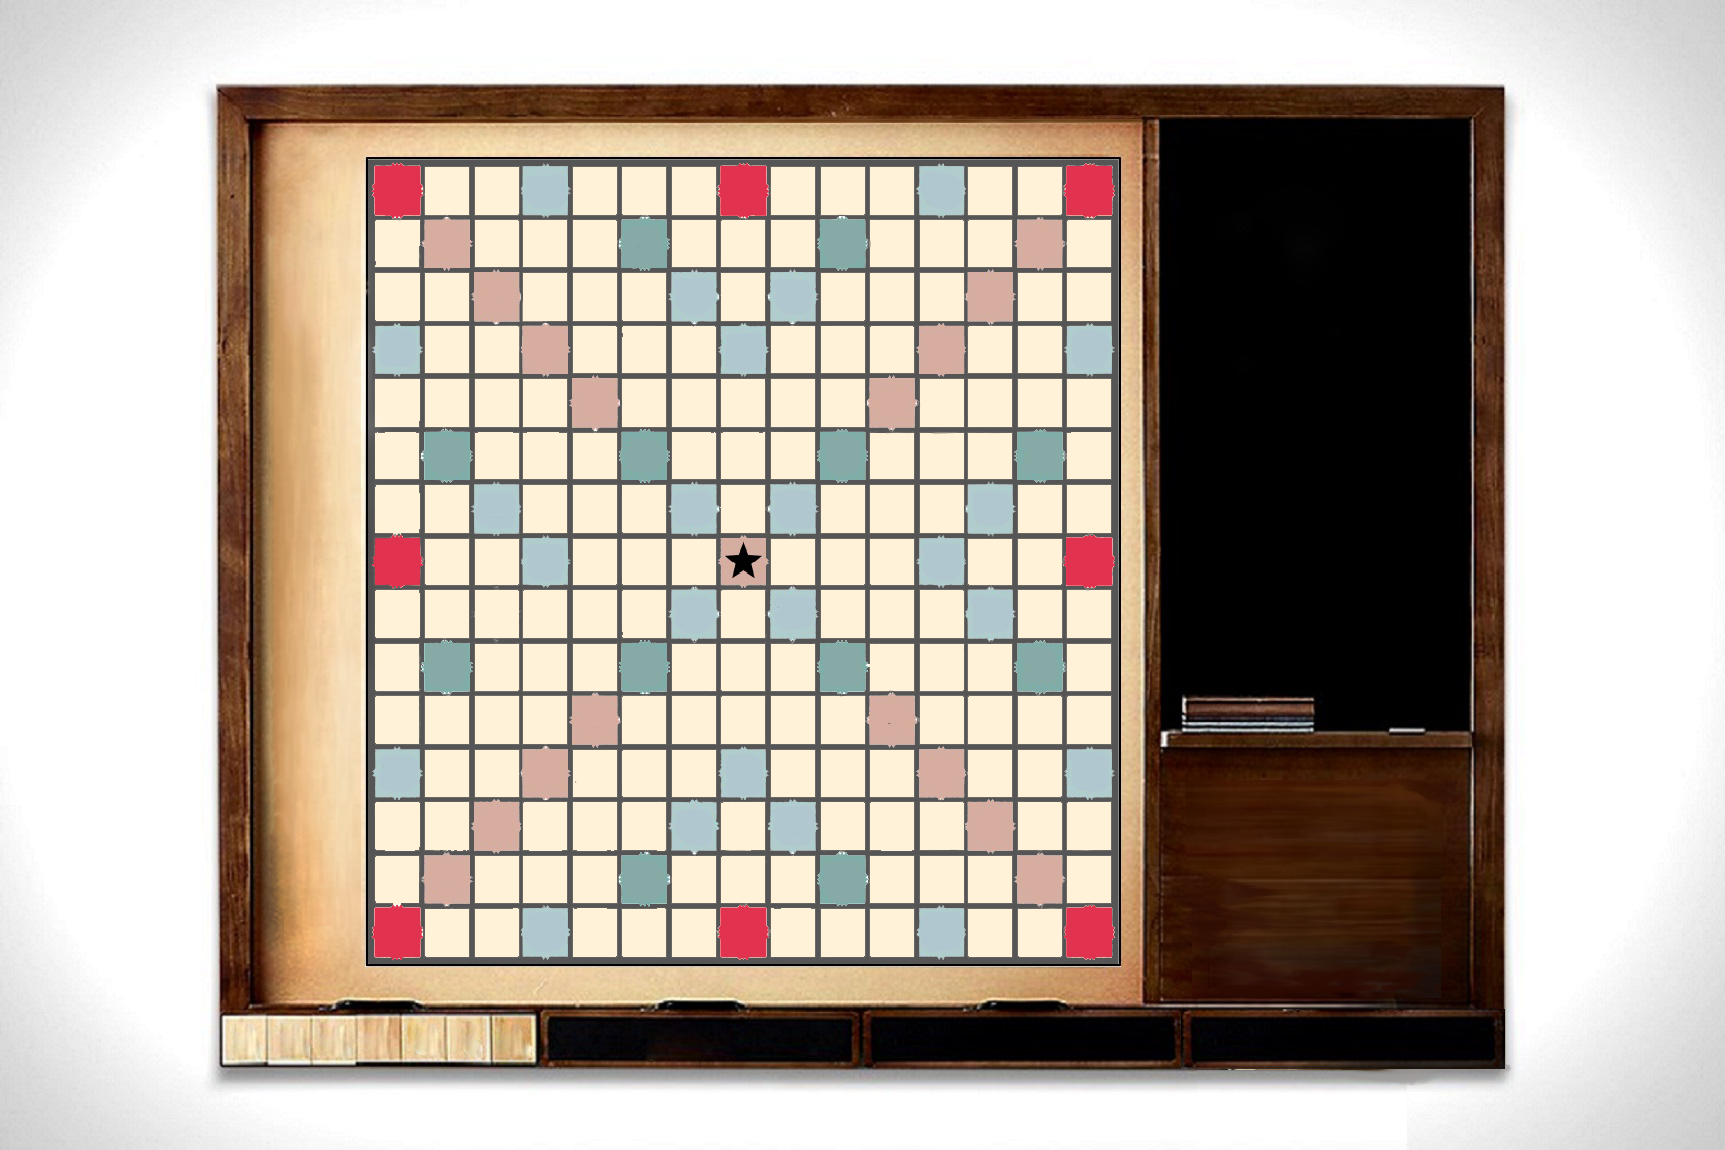
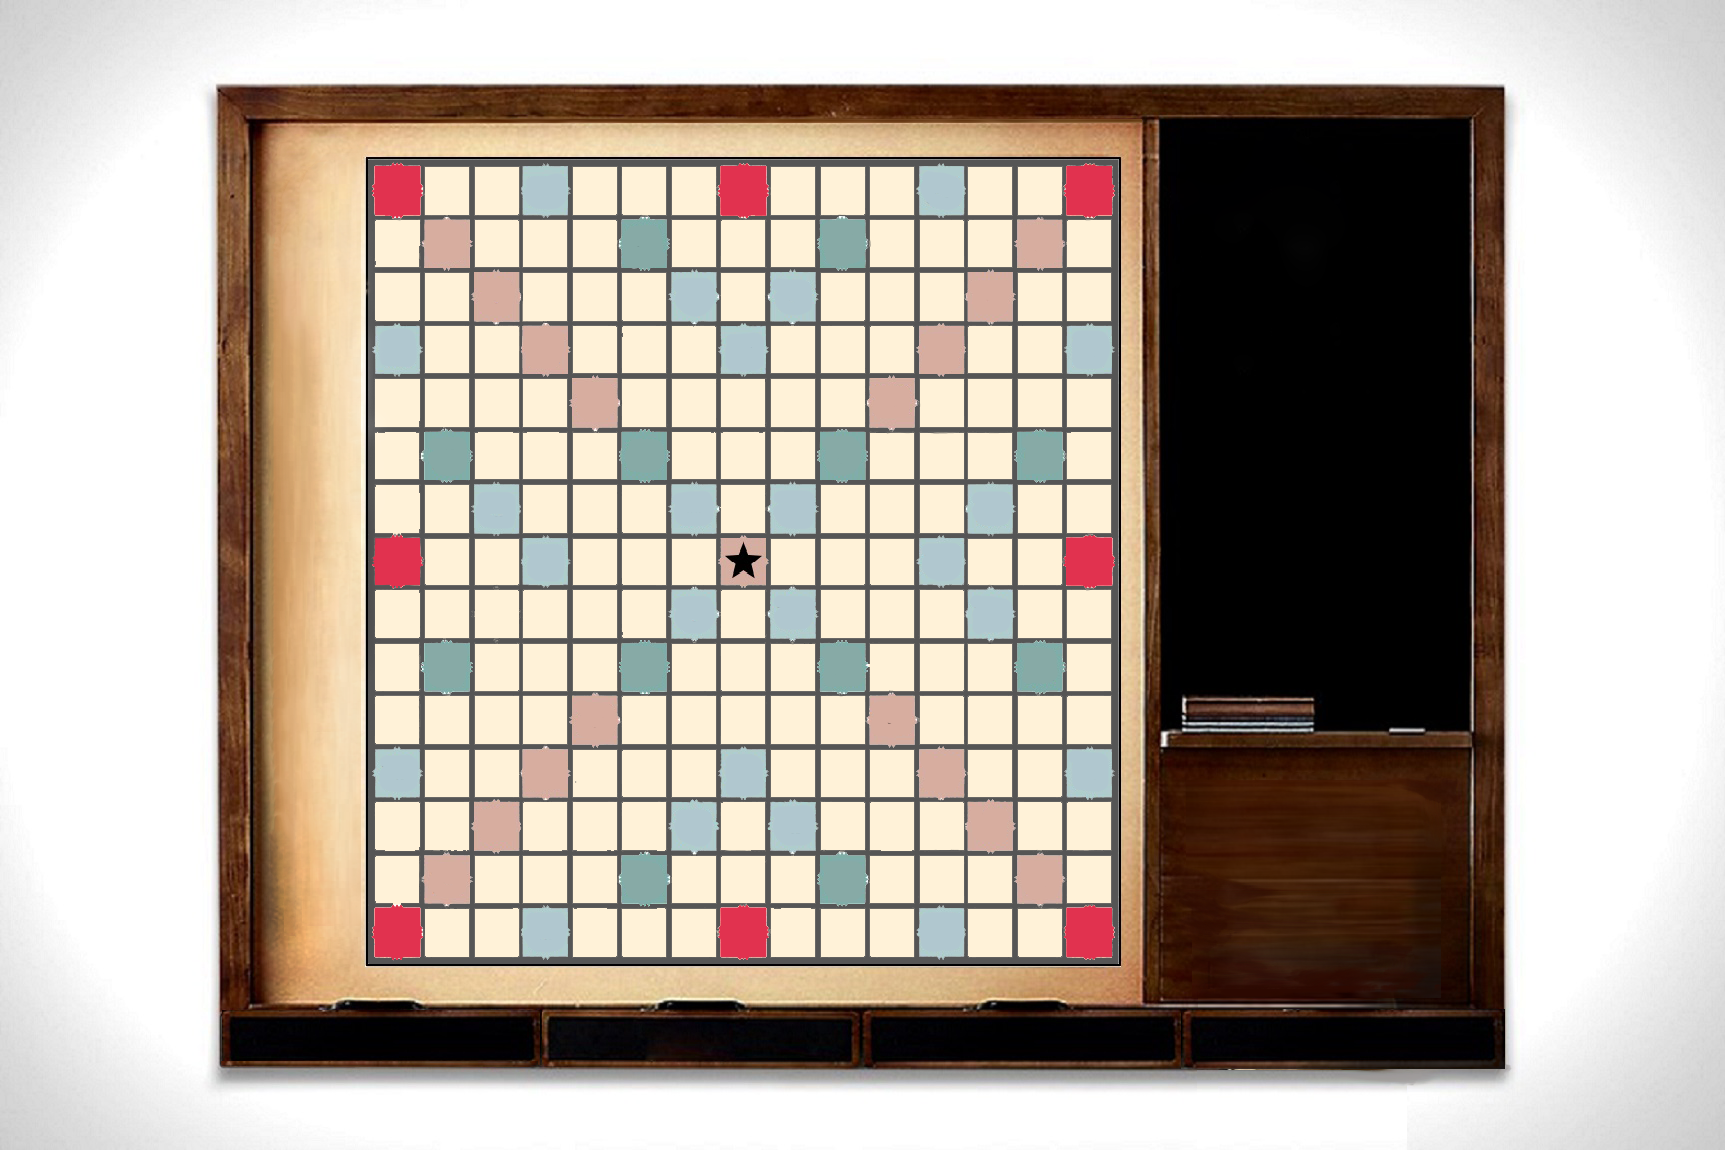
Adding the tiles bag

Changed region(s): [[0.1229, 0.8522, 0.338, 0.9435]]

diff --git a/tile.js b/tile.js
@@ -1,70 +1,93 @@
-console.log("tile file loaded");
-
-let Tile = function (app, board) {
-	this._tilepath = 'assets/blank-tile.png';
-    this._shadowpath = 'assets/blank-tile-shadow.png';
-    this._tilesprite;
-    this._shadowsprite;
-    this._text;
-    this._container;
-    this._clickable = true; //true on my turn only
-    this._visible = true;
-    this._board = board;
-    this._app = app;
-        
-    this._dummy = true;
-    this.init(app);
+let Tile= function(app,board){
+	this.position; //this represents the tile pos in the board
+	this.value; //this represents the value of the tile 
+	this.tileText; //this represents the tile character
+	this.container; //this is our container :D 
+	this.tileSprite; //used to load the tile image
+	this.shadowSprite; //used to add shadow to the tile
+	this.app=app;
+	this.board=board;
+	
+	this.tilePath = 'assets/blank-tile.png';
+    this.shadowPath = 'assets/blank-tile-shadow.png';
+    this.clickable = true; //true on my turn only
+    this.visible = true;
+	
+	this.init(app);
 }
 
 Tile.prototype = {
     init: function(app){
-        //Create container and assign it for rendering
-        this._container = new PIXI.Container();
-        app.stage.addChild(this._container);
-
-        // create a new Sprite from an image path
-        this._tilesprite = PIXI.Sprite.fromImage(this._tilepath);          
-        this._shadowsprite = PIXI.Sprite.fromImage(this._shadowpath);
-        let style = new PIXI.TextStyle({ fontFamily: 'Arial', fontSize: 28, dropShadow: true, dropShadowColor: '#000000',
-            dropShadowBlur: 4, dropShadowAngle: Math.PI / 6, dropShadowDistance: 0 });
-        this._text = new PIXI.Text('A', style);
-        this._shadowsprite.x = -7; this._shadowsprite.y = -3;
-        this._text.x = 12; this._text.y = 6;
-        this._tilesprite.interactive = this._clickable;
-        this._tilesprite.buttonMode = this._clickable;
-        //this._tilesprite.cursor = 'wait'  //wow! loading cursor
-        this._container.addChild(this._shadowsprite);
-        this._container.addChild(this._tilesprite);
-        this._container.addChild(this._text);
-        this._container.pivot.x = 22;
-        this._container.pivot.y = 22;
-        this._container.x = app.screen.width / 2;
-        this._container.y = app.screen.height / 2;   
-        this._container.scale.set(0.65); //0.7
-        // important note: el event el byndah el onclick kan hwa el 'this' fa 3amlt mwdo3 bind da
+		//create container
+		this.container = new PIXI.Container();
+		//assign the container for the global one for rendering
+		app.stage.addChild(this.container);
+		
+		// create a new Sprite from an image path
+        this.tileSprite = PIXI.Sprite.fromImage(this.tilePath);          
+        this.shadowSprite = PIXI.Sprite.fromImage(this.shadowPath);
+		
+		//create text style
+		let style = new PIXI.TextStyle({ fontFamily: 'Arial', fontSize: 28, dropShadow: true, dropShadowColor: '#000000',
+			dropShadowBlur: 4, dropShadowAngle: Math.PI / 6, dropShadowDistance: 0 });
+		//assign the style and the defualt char
+		this.tileText = new PIXI.Text('A', style);
+		
+		//adding shadow to the tile
+        this.shadowSprite.x = -7; 
+		this.shadowSprite.y = -3;
+		//set the text position
+        this.tileText.x = 12;
+		this.tileText.y = 6;
+		
+		//make the tile clickable
+        this.tileSprite.interactive = this.clickable;
+        this.tileSprite.buttonMode = this.clickable;
+		
+		//adding child to the container so we can update them 
+        this.container.addChild(this.shadowSprite);
+        this.container.addChild(this.tileSprite);
+        this.container.addChild(this.tileText);
+		
+		//set the container width & height ...etc
+        this.container.pivot.x = 22;
+        this.container.pivot.y = 22;
+        this.container.x = app.screen.width / 2;
+        this.container.y = app.screen.height / 2;   
+        this.container.scale.set(0.7); 
+		
+		// important note: el event el byndah el onclick kan hwa el 'this' fa 3amlt mwdo3 bind da
         // bind(this) bet return function gdida wel this bta3etha hya el 7aga el ana ba3ethalha! wow
-        this._tilesprite.on('pointerdown', this.myonClick.bind(this)); // Pointers normalize touch and mouse
-    },
+        this.tileSprite.on('pointerdown', this.myonClick.bind(this)); // Pointers normalize touch and mouse
+		
+},
 
-    //ba3d kda msh hynfa3 yb2a el tile l hya el fiha el hy7sal fl onclick , mfrod yb2a fi 7ad kbir shayef
+
+
+
+
+
+	//ba3d kda msh hynfa3 yb2a el tile l hya el fiha el hy7sal fl onclick , mfrod yb2a fi 7ad kbir shayef
     //we y2olha lama hya bs t2ol 7ad dasni , 3ashan hyb2a fi relations ben el tiles wel hand , we kolo mstani ba3d
     // msh kol wa7ed bytsaraf lwa7do 
     myonClick: function(){
         //console.log(this)
-        this._container.rotation += 0.05;
-        if (this._dummy){
-            this._dodo = this.dummFunc.bind(this) //da lazmto eni b7awesh pointer 3l function el gdida el rag3ali mn el bind 3ashan lma a2ol remove y3rf hyshil min
+        this.container.rotation += 0.05;
+        if (this.dummy){
+            this.dodo = this.dummFunc.bind(this) //da lazmto eni b7awesh pointer 3l function el gdida el rag3ali mn el bind 3ashan lma a2ol remove y3rf hyshil min
             // we da kolo asln 3ashan lma ba3at el function mn gher bind, el this etghyaret
-            this._app.ticker.add(this._dodo);
+            this.app.ticker.add(this.dodo);
         } else {
-            this._app.ticker.remove(this._dodo);
+            this.app.ticker.remove(this.dodo);
         }
-        this._dummy = !this._dummy;
+        this.dummy = !this.dummy;
 
-        this._board.selectTile(this);
+        this.board.selectTile(this);
     },
 
     dummFunc: function(delta){
-        this._container.rotation += 0.03 * delta;
+        this.container.rotation += 0.03 * delta;
     }
+	
 };
+

diff --git a/board.js b/board.js
@@ -50,7 +50,7 @@ Board.prototype = {
     		//logic of movement here ..
 			this._animationFunction = this.moveHandtoTile.bind(this)
 			this._app.ticker.add(this._animationFunction);
-			this._animationStartingPos = {x:this._hand._container.position.x, y:this._hand._container.position.y};
+			this._animationStartingPos = {x:this._hand.container.position.x, y:this._hand.container.position.y};
     		this._animation_t1 = 0;
     		this._animation_t2 = 0;
     		this._randomDir = Math.random() >= 0.5;
@@ -70,23 +70,23 @@ Board.prototype = {
 
     	//to move towards a tile
     	if (this._animation_t1 < 60) {
-    		this._hand._container.position.x = this._animationStartingPos.x + this.easeOutQuart(this._animation_t1/60) * (this._selectedTile._container.position.x - this._animationStartingPos.x);
-    		this._hand._container.position.y = this._animationStartingPos.y + this.easeOutQuart(this._animation_t1/60) * (this._selectedTile._container.position.y - this._animationStartingPos.y);
+    		this._hand.container.position.x = this._animationStartingPos.x + this.easeOutQuart(this._animation_t1/60) * (this._selectedTile.container.position.x - this._animationStartingPos.x);
+    		this._hand.container.position.y = this._animationStartingPos.y + this.easeOutQuart(this._animation_t1/60) * (this._selectedTile.container.position.y - this._animationStartingPos.y);
     		this._animation_t1 = this._animation_t1 + delta;
     	}
 
     	//to move towards mouse click
     	if (this._animation_t1 > 50 && this._animation_t2 < 60){
-    		this._hand._container.position.x = this._selectedTile._container.position.x + this.easeOutQuart(this._animation_t2/60) * (this._mouseclickPos.x - this._selectedTile._container.position.x);
-    		this._hand._container.position.y = this._selectedTile._container.position.y + this.easeOutQuart(this._animation_t2/60) * (this._mouseclickPos.y - this._selectedTile._container.position.y);	
+    		this._hand.container.position.x = this._selectedTile.container.position.x + this.easeOutQuart(this._animation_t2/60) * (this._mouseclickPos.x - this._selectedTile.container.position.x);
+    		this._hand.container.position.y = this._selectedTile.container.position.y + this.easeOutQuart(this._animation_t2/60) * (this._mouseclickPos.y - this._selectedTile.container.position.y);	
     		this._animation_t2 = this._animation_t2 + delta;
     	}
 
     	//todo: move hand out of window and move tile with it
 
     	if (this._randomDir)
-    		this._hand._container.rotation += 0.004 * delta;
+    		this._hand.container.rotation += 0.004 * delta;
     	else
-    		this._hand._container.rotation -= 0.004 * delta;
+    		this._hand.container.rotation -= 0.004 * delta;
     }
 };

diff --git a/bag.js b/bag.js
@@ -1,0 +1,75 @@
+let Bag = function(){
+	this.availableTiles={}; //this will hold the tiles bag 
+	this.characters=['A','B','C','D','E','F','G','H','I','J','K','L','M','N','O','P','Q','R','S','T','U','V','W','X','Y','Z',' '];
+	this.random;
+	this.init();
+}
+Bag.prototype = {
+	init: function(app){
+		//init our tiles bag
+		availableTiles=[9,2,2,4,12,2,3,2,9,1,1,4,2,6,8,2,1,6,4,6,4,2,2,1,2,1,2];
+		console.log(availableTiles);
+	},
+	
+	//this function is used to exchange certain num of tiles 
+	exchange:function(num,exTiles){
+		var i=0;
+		var tiles={};
+		//check if there is the required num 
+		if(availableTiles.length>=num)
+		{
+			//generate random 
+			while(num>0)
+			{
+				this.random=this.generateRandom();
+				if(availableTiles[this.random-1]>0)
+					{
+						//note : lazm a-check eno el generated char msh mwgood f el array el asly wla msh mohm ????
+						num--;
+						//add the tile to the returned bag
+						tiles[i]=this.characters[this.random-1];
+						availableTiles[this.random-1]--;
+						i++;
+					}
+			}
+			//put the original tiles to the bag
+			while(i>0)
+			{
+				//check if the char is space 
+				if(exTiles[i]==' ')
+					availableTiles[26]++;
+				else
+					availableTiles[exTiles[i]-65]++;
+				i--;
+			}
+			return tiles;
+		}
+		return 0;
+			
+	},
+	
+	//this function generates the 7 tiles of the user 
+	generateUserTiles:function(){
+		var tiles={};
+		var num=0;
+		//generate random 
+			while(num<7)
+			{
+				this.random=this.generateRandom();
+				if(availableTiles[this.random-1]>0)
+					{
+						//add the tile to the returned bag
+						tiles[num]=this.characters[this.random-1];
+						availableTiles[this.random-1]--;
+						num++;
+					}
+			}
+		return tiles;
+	},
+	
+	//this function generates random num between 1 and 27
+	generateRandom:function()
+	{
+		return Math.floor(Math.random() * 27) + 1;
+	}
+};

diff --git a/hand.js b/hand.js
@@ -5,7 +5,7 @@ let Hand = function (app) {
     this._shadowpath = 'assets/hand-locked-shadow.png';
     this._handsprite;
     this._shadowsprite;
-    this._container;
+    this.container;
     this._visible = true;
         
     this.init(app);
@@ -14,22 +14,22 @@ let Hand = function (app) {
 Hand.prototype = {
     init: function(app){
         //Create container and assign it for rendering
-        this._container = new PIXI.Container();
-        app.stage.addChild(this._container);
+        this.container = new PIXI.Container();
+        app.stage.addChild(this.container);
 
         // create a new Sprite from an image path
         this._handsprite = PIXI.Sprite.fromImage(this._handpath);          
         this._shadowsprite = PIXI.Sprite.fromImage(this._shadowpath);
         
         this._shadowsprite.x = -40; this._shadowsprite.y = 25;
-        this._container.addChild(this._shadowsprite);
-        this._container.addChild(this._handsprite);
-        this._container.pivot.x = 30;
-        this._container.pivot.y = 175;
-        this._container.x = app.screen.width / 2 + 30;
-        this._container.y = app.screen.height + 120;   
-        this._container.scale.set(0.6);
-        this._container.rotation = -0.25
+        this.container.addChild(this._shadowsprite);
+        this.container.addChild(this._handsprite);
+        this.container.pivot.x = 30;
+        this.container.pivot.y = 175;
+        this.container.x = app.screen.width / 2 + 30;
+        this.container.y = app.screen.height + 120;   
+        this.container.scale.set(0.6);
+        this.container.rotation = -0.25
 
     }
 };

diff --git a/test.js b/test.js
@@ -11,12 +11,38 @@ window.onload = function(){
     let tile2 = new Tile(app, board);
     let tile3 = new Tile(app, board);
  
-    tile2._container.position.set(100,200)
-    tile3._container.position.set(300,323)
-    tile2._container.children[2].text='B'
+    tile2.container.position.set(100,200)
+    tile3.container.position.set(300,323)
+    tile2.container.children[2].text='B';
+////////////////////////////////////////////////// hager test /////////////////////
 
-
-
+	let bag=new Bag();
+	var user1=bag.generateUserTiles();
+	console.log(user1);
+	var exTiles=[user1[0],user1[2]];
+	console.log(bag.exchange(2,exTiles));
+	let tile4 = new Tile(app, board);
+	let tile5 = new Tile(app, board);
+	let tile6 = new Tile(app, board);
+	let tile7 = new Tile(app, board);
+	
+	tile1.container.position.set(145,623);
+	tile2.container.position.set(173,623);
+    tile3.container.position.set(201,623);
+	tile4.container.position.set(229,623);
+	tile5.container.position.set(257,623);
+    tile6.container.position.set(285,623);
+	tile7.container.position.set(313,623);
+	
+	
+	tile1.container.children[2].text=user1[0];
+	tile2.container.children[2].text=user1[1];
+    tile3.container.children[2].text=user1[2];
+	tile4.container.children[2].text=user1[3];
+	tile5.container.children[2].text=user1[4];
+    tile6.container.children[2].text=user1[5];
+	tile7.container.children[2].text=user1[6];
+///////////////////////////////////////////////////////////////////////////////////
     let hand = new Hand(app);
     board.setHand(hand);
     app.ticker.add(function(delta) {

diff --git a/index.html b/index.html
@@ -2,12 +2,13 @@
 <html>
 <head>
     <meta charset="utf-8"/>
-    <title>Hello World</title>
+    <title>Scrabble</title>
     <script src="pixi.min.js"></script>
     <script src="eventDispatcher.js"></script>
     <script src="board.js"></script>
     <script src="tile.js"></script>
     <script src="hand.js"></script>
+	<script src="bag.js"></script>
     <script src="test.js"></script>
 
 </head>
